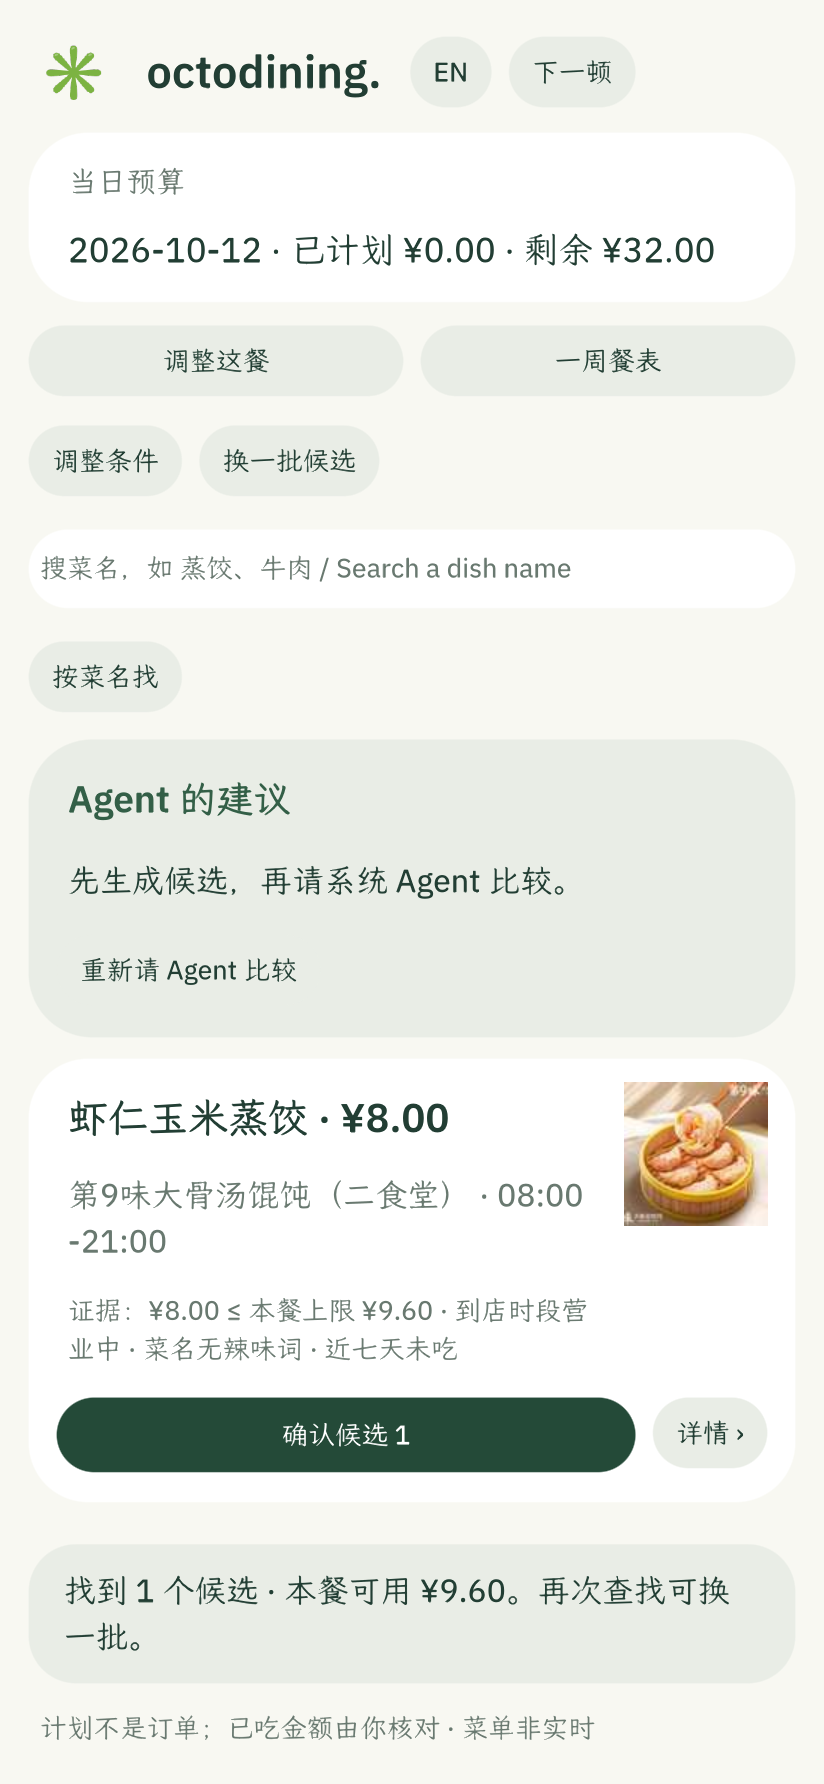
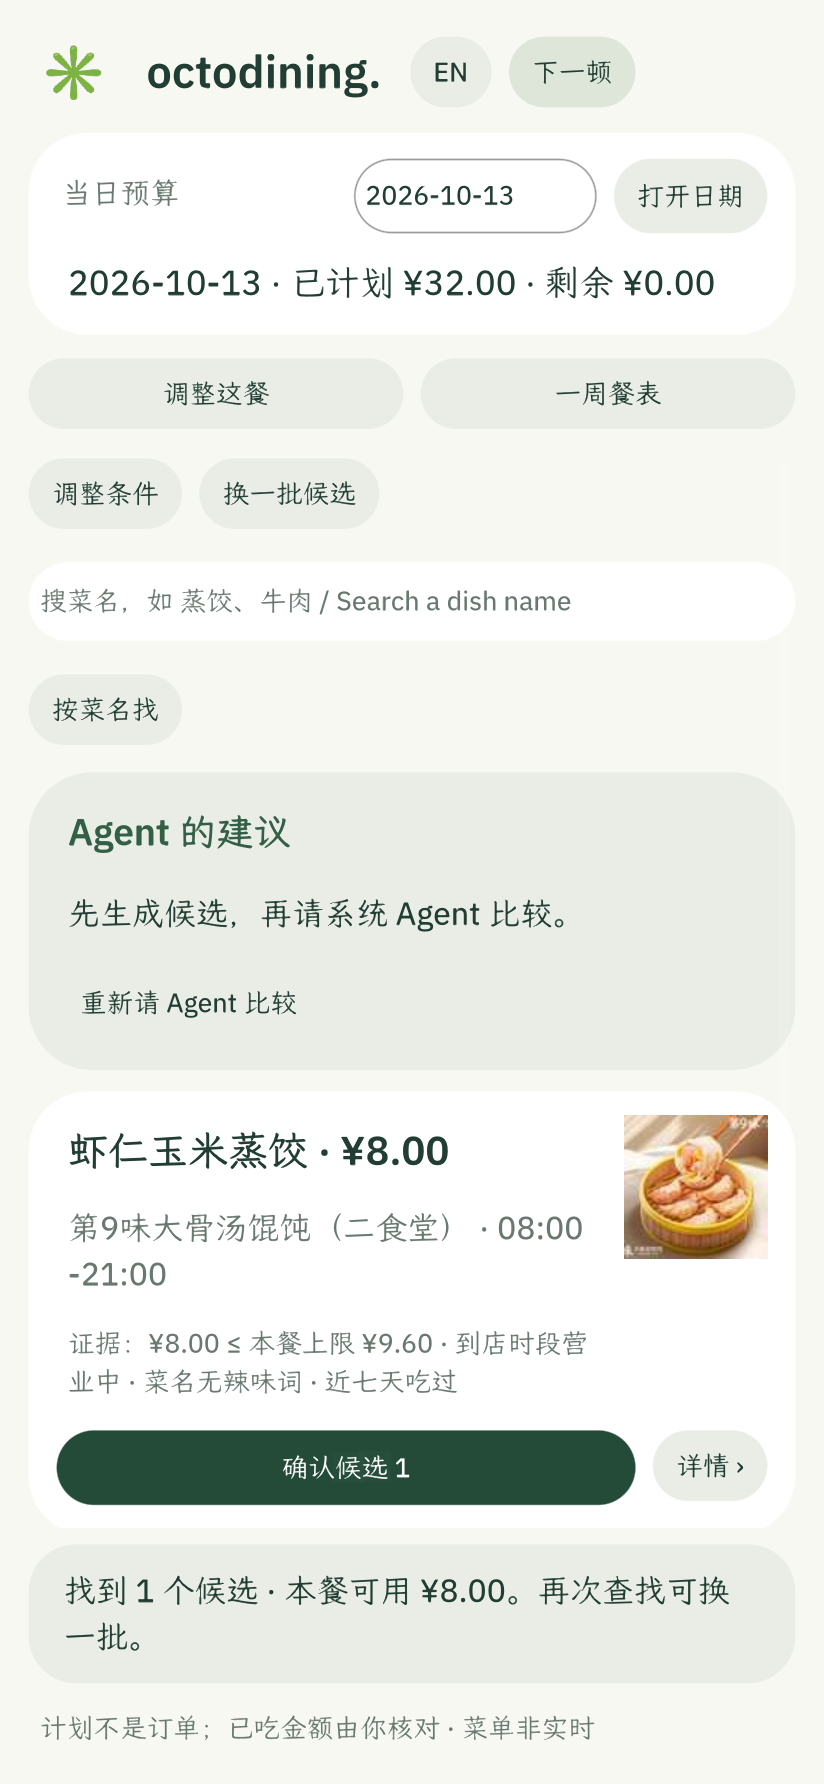
1.11.4: onboarding ends by drafting the first week plan
finish_setup now saves the budget, then immediately generates the
seven-day draft and lands on it for review; only confirmation writes
the plan. Home recommends per-meal only for slots with no plan.
Also fixes a race where discarding a draft mid-generation let the
in-flight ticks repopulate the panel (clear_week_draft bumps the
generation counter). Step 03 copy, screenshots, listing and docs
updated; regressions extended for the setup-to-draft path.

diff --git a/scripts/capture-card-host.py b/scripts/capture-card-host.py
@@ -54,7 +54,7 @@ def main():
         nodes = matching()
         if not nodes:
             get("m?k=scroll&x=200&y=610&dy=-2000&wait=1")
-            for _ in range(8):
+            for _ in range(14):
                 nodes = matching()
                 if nodes:
                     break
@@ -79,8 +79,14 @@ def main():
                 return
         raise RuntimeError(f"Could not fill {widget_id}: {actual!r}")
 
-    def capture(name, previous_mtime=0):
-        # Product images arrive asynchronously after the UI frame. Give the
+    def await_status(fragment, timeout=15):
+        deadline = time.monotonic() + timeout
+        while not any(fragment in node.get("t", "") for node in snap() if node.get("i") == "status"):
+            if time.monotonic() > deadline:
+                raise RuntimeError(f"status never showed {fragment!r}: " + repr([node.get("t") for node in snap() if node.get("i") == "status"]))
+            time.sleep(.25)
+
+    def capture(name, previous_mtime=0):        # Product images arrive asynchronously after the UI frame. Give the
         # native renderer time to replace its black loading rectangle.
         if name != "00-first-run-setup.png":
             time.sleep(1.5)
@@ -115,18 +121,33 @@ def main():
         get("m?k=scroll&x=200&y=610&dy=250&wait=1")
         click(widget_id="setup_preview")
         expected_budget = "每天约 ¥32.00" if args.language == "zh" else "about ¥32.00/day"
-        if not any(expected_budget in node.get("t", "") for node in snap()):
-            raise RuntimeError("First-run budget calculation failed: " + repr([(node.get("i"), node.get("t")) for node in snap() if node.get("t")]))
+        deadline = time.monotonic() + 15
+        while not any(expected_budget in node.get("t", "") for node in snap()):
+            if time.monotonic() > deadline:
+                raise RuntimeError("First-run budget calculation failed: " + repr([(node.get("i"), node.get("t")) for node in snap() if node.get("t")]))
+            time.sleep(.25)
         click(widget_id="setup_start")
-        if not any(node.get("i") == "home_name" for node in snap()):
-            raise RuntimeError("First-run setup did not open the meal-first home")
-        capture("01-home-recommendation.png")
+        draft_ready = "已生成七天草案" if args.language == "zh" else "Seven-day draft ready"
+        await_status(draft_ready)
+        capture("01-first-week-draft.png")
+        before = framebuffer.stat().st_mtime_ns
+        click(widget_id="confirm_draft")
+        confirmed = "已确认并读回核验" if args.language == "zh" else "Confirmed and verified"
+        await_status(confirmed)
+        capture("03-week-plan-confirmed.png", before)
+        before = framebuffer.stat().st_mtime_ns
+        click(widget_id="home_nav")
+        deadline = time.monotonic() + 10
+        while not any(node.get("i") == "home_name" and node.get("t") for node in snap()):
+            if time.monotonic() > deadline:
+                raise RuntimeError("Confirmed week draft did not land on the planned-meal home")
+            time.sleep(.25)
+        capture("01b-home-planned.png", before)
         before = framebuffer.stat().st_mtime_ns
         click(widget_id="manual")
         click(widget_id="find")
         found = "找到 " if args.language == "zh" else "Found "
-        if not any(found in node.get("t", "") for node in snap() if node.get("i") == "status"):
-            raise RuntimeError("Candidate lookup did not complete: " + repr([node.get("t") for node in snap() if node.get("i") == "status"]))
+        await_status(found)
         capture("02-candidates.png", before)
         before = framebuffer.stat().st_mtime_ns
         click(label="详情 ›" if args.language == "zh" else "Details ›")
@@ -136,16 +157,13 @@ def main():
             get("m?k=scroll&x=200&y=610&dy=-280&wait=1")
             time.sleep(.25)
         time.sleep(.6)
-        before = framebuffer.stat().st_mtime_ns
         capture("02b-candidate-detail.png", before)
         click(label="收起 ↑" if args.language == "zh" else "Hide ↑")
         before = framebuffer.stat().st_mtime_ns
         click(label="确认候选 1" if args.language == "zh" else "Confirm option 1")
         verified = "已保存并读回核验" if args.language == "zh" else "Saved and read back"
-        if not any(verified in node.get("t", "") for node in snap() if node.get("i") == "status"):
-            raise RuntimeError("Plan was not saved and read back")
+        await_status(verified)
         click(widget_id="tab_history")
-        capture("03-week-plan-confirmed.png", before)
         print("card-host native capture complete; model and OctoSense Shell are outside this script")
     finally:
         if started:

diff --git a/scripts/test-basic-app.py b/scripts/test-basic-app.py
@@ -98,6 +98,15 @@ class App:
             actual = self.text('status')
         assert fragment in actual, (fragment, actual)
 
+    def await_text(self, key, fragment, timeout=15):
+        # Frames can stall for seconds under GPU contention; poll patiently.
+        deadline = time.monotonic() + timeout
+        actual = self.text(key)
+        while fragment not in actual and time.monotonic() < deadline:
+            time.sleep(.15)
+            actual = self.text(key)
+        assert fragment in actual, (key, fragment, actual)
+
     def quit(self):
         self.get('quit')
         time.sleep(.2)
@@ -149,12 +158,18 @@ def main():
         app.fill('setup_monthly','1500.00')
         app.fill('setup_fixed','800.00')
         app.click('看看如何分配')
-        assert '预算偏紧' in app.text('setup_result')
+        app.await_text('setup_result', '预算偏紧')
         app.fill('setup_fixed','540.00')
         app.click('看看如何分配')
-        assert '每天约 ¥32.00' in app.text('setup_result')
-        app.click('使用这份菜单，开始选餐')
+        app.await_text('setup_result', '每天约 ¥32.00')
+        app.click('保存并生成七天餐表草案')
         assert json.loads((jail/'profile.json').read_text())['daily_cents']==3200
+        app.await_text('status', '已生成七天草案')
+        assert '待确认' in app.text('draft_summary'), app.text('draft_summary')
+        assert not list(jail.glob('plans-*.json')), 'draft wrote a plan before confirmation'
+        record('Onboarding ends with a seven-day draft awaiting confirmation')
+        app.click('discard_draft')
+        app.click('home_nav')
         canteen_minute = datetime.now().hour * 60 + datetime.now().minute
         expected_slot = '早餐' if canteen_minute < 600 else '午餐' if canteen_minute < 840 else '晚餐' if canteen_minute < 1200 else '早餐'
         assert expected_slot in app.text('home_caption'), app.text('home_caption')

diff --git a/scripts/test-custom-menu.py b/scripts/test-custom-menu.py
@@ -68,6 +68,9 @@ def main():
         app.fill("setup_fixed", "540.00")
         app.click("setup_start")
         assert json.loads((jail / "profile.json").read_text())["menu"] == "custom-v1"
+        # Onboarding now lands on the generated week draft; head home to
+        # exercise per-meal recommendation with the imported menu.
+        app.click("home_nav")
         assert app.text("home_name") in {item["name"] for item in meals}
         app.click("home_cta")
         app.status("已保存并读回核验")

diff --git a/scripts/test-language.py b/scripts/test-language.py
@@ -59,6 +59,8 @@ def main():
                 break
         assert 'about ¥32.00/day' in app.text('setup_result'), app.text('setup_result')
         app.click('setup_start')
+        # Onboarding now lands on the generated week draft; head home first.
+        app.click('home_nav')
         assert app.text('intro_title') == 'Your next good meal.'
         assert app.text('home_name')
         assert any(day in app.text('home_caption') for day in ('Today', 'Tomorrow'))

diff --git a/scripts/test-slot-order.py b/scripts/test-slot-order.py
@@ -33,6 +33,8 @@ try:
     app.fill("setup_fixed", "540.00")
     app.click("setup_preview")
     app.click("setup_start")
+    # Onboarding now lands on the generated week draft; head home first.
+    app.click("home_nav")
 
     app.click("manual")
 

diff --git a/README.md b/README.md
@@ -2,23 +2,23 @@
 
 **中文** · [English](README.en.md)
 
-打开就知道下一餐吃什么。OctoDining 把每月可支配生活费变成每日餐饮预算，再从食堂菜单中给出能核对、能更换、能确认的餐食建议。已有餐表时首页优先显示原计划；没有计划时推荐一道。用户也能生成七日草案、逐餐修改，并记录实际花费。Agent 可以比较当前真实候选，重要变更仍由用户确认。
+打开就知道下一餐吃什么。OctoDining 把每月可支配生活费变成每日餐饮预算，首次设置就生成一周餐表草案，确认后首页按餐表执行；没有计划的餐次才推荐一道可确认的菜。用户可以逐餐修改、重新生成草案，并记录实际花费。Agent 可以比较当前真实候选，重要变更仍由用户确认。
 
 这是面向学生的 **OctoSense / OctoScript / Makepad** 原生应用原型。随包菜单是广州某高校食堂的 1,497 条历史快照；也可在首次引导粘贴自己食堂的菜单 JSON。价格、时段和配图不代表实时可售、营养或过敏安全。
 
 **评委先看 Agent 闭环：** [15 秒 1.2.2 真实 Agent 证据剪辑](docs/demo/octodining-122-agent-evidence-reel.mp4) · [同一次 Shell 联调原始记录和三张截图](docs/evidence/shell-ui122-minimax-20261004.json) · [按评分项核验](docs/AGENTIC_JUDGING.md)。MiniMax-M3 在已有晚餐计划上比较候选并建议候选 3；用户亲自确认，应用保存计划并读回核验。剪辑由真实截图制成，并非连续录屏。**1.7.0 的 Shell 测试遭遇 429，没有取得同版模型建议**；下方 1.7.0 画面用于展示后续产品功能，不能与 1.2.2 Agent 证据视作同一次运行。**当前签名版 1.11.1 的整周 Agent 闭环录屏**（真实 MiniMax-M3 提议、应用到草案、确认读回；录于 1.11.0，1.11.1 为界面精简与周窗口锚点修复、Agent 调用逻辑相同）：[帧缓冲录屏与关键帧](docs/evidence/shell-week-agent-1110-20261012.md)。
 
-**当前 1.11.1 界面**（card-host 原生截图，非模型证据；[画面与改动说明](docs/evidence/ui-declutter-1111-20261012.md)）：
+**当前 1.11.4 界面**（card-host 原生截图，非模型证据；[画面与改动说明](docs/evidence/ui-planfirst-1114-20261012.md)）：
 
-| 首次使用 | 下一餐 · 来源行与预算指标 | 候选 · 约束证据 |
+| 首次使用 | 引导完成 · 首周餐表草案 | 确认后的一周餐表 |
 | :---: | :---: | :---: |
-| <img src="docs/evidence/ui-declutter-1111-20261012/00-first-run-setup.png" alt="首次引导" width="250"> | <img src="docs/evidence/ui-declutter-1111-20261012/01-home-recommendation.png" alt="下一餐推荐、来源行与预算指标" width="250"> | <img src="docs/evidence/ui-declutter-1111-20261012/03-candidates.png" alt="候选与约束证据" width="250"> |
+| <img src="docs/evidence/ui-planfirst-1114-20261012/00-first-run-setup.png" alt="首次引导" width="250"> | <img src="docs/evidence/ui-planfirst-1114-20261012/01-first-week-draft.png" alt="引导结束即生成待确认的一周餐表草案" width="250"> | <img src="docs/evidence/ui-planfirst-1114-20261012/03-week-plan-confirmed.png" alt="确认后写入并读回的一周餐表" width="250"> |
 
-| 选餐 · 当日预算卡 | 周餐表 · 本周预算进度 | 超支 · 一键重平衡 |
+| 首页 · 餐表中的下一餐 | 候选 · 约束证据 | 超支 · 一键重平衡 |
 | :---: | :---: | :---: |
-| <img src="docs/evidence/ui-declutter-1111-20261012/02-selection-summary.png" alt="选餐页与合并后的当日预算卡" width="250"> | <img src="docs/evidence/ui-declutter-1111-20261012/04-week-plan-decluttered.png" alt="周餐表与本周预算进度条" width="250"> | <img src="docs/evidence/week-rebalance-20261012/rebalance-proposal.png" alt="周超支预警与省钱调整方案" width="250"> |
+| <img src="docs/evidence/ui-planfirst-1114-20261012/01b-home-planned.png" alt="首页显示餐表里的下一餐" width="250"> | <img src="docs/evidence/ui-planfirst-1114-20261012/02-candidates.png" alt="候选与约束证据" width="250"> | <img src="docs/evidence/week-rebalance-20261012/rebalance-proposal.png" alt="周超支预警与省钱调整方案" width="250"> |
 
-重平衡画面来自自动化验收运行（[说明与断言](docs/evidence/week-rebalance-20261012.md)），不是摆拍；该面板在 1.11.1 未变动。
+重平衡画面来自自动化验收运行（[说明与断言](docs/evidence/week-rebalance-20261012.md)），不是摆拍；该面板在 1.11.4 未变动。
 
 以下为 1.7.0 **card-host 原生运行截图**；不是 OctoSense Shell 的模型联调证据。[更多截图与验证](docs/evidence/next-meal-170-20261005.md)。
 

diff --git a/docs/BRIEF.md b/docs/BRIEF.md
@@ -6,7 +6,7 @@
 
 首批用户是有可获取食堂菜单、预算有限、每天反复决定吃什么的学生。用户需要在可负担的范围内安排餐次，清楚知道计划花多少钱、实际花了多少钱，并能调整自己的决定。打工人的工作餐是后续可验证的使用场景，需要先取得其餐厅菜单与价格数据。
 
-产品承诺是“让预算有限的人，也能好好吃饭”。“好好吃饭”是中文名，首页先回答“下一餐吃什么”：首次使用先说明食堂来源并核算饭钱；有计划就显示下一餐的安排；没有计划时直接推荐一道可确认的菜。调整需求、查看一周餐表是下一步，不要求用户先浏览菜单。A1–A6 是已有餐饮预算分档，用户可以手动改预算；它不用于判断真实资产或给人评级。内置数据覆盖广州某高校食堂，其他食堂依赖用户导入菜单。详细状态与验收见[产品流程](PRODUCT_POSITIONING.md)。
+产品承诺是“让预算有限的人，也能好好吃饭”。“好好吃饭”是中文名，首页先回答“下一餐吃什么”：首次使用说明食堂来源、核算饭钱，随后**自动生成一周餐表草案，用户确认后才写入餐表**；之后首页有计划就显示下一餐的安排，没有计划的餐次才推荐一道可确认的菜。调整需求、查看一周餐表是下一步，不要求用户先浏览菜单。A1–A6 是已有餐饮预算分档，用户可以手动改预算；它不用于判断真实资产或给人评级。内置数据覆盖广州某高校食堂，其他食堂依赖用户导入菜单。详细状态与验收见[产品流程](PRODUCT_POSITIONING.md)。
 
 ## 第一项完整任务
 

diff --git a/docs/evidence/ui-planfirst-1114-20261012.md b/docs/evidence/ui-planfirst-1114-20261012.md
@@ -1,0 +1,13 @@
+# 1.11.4 界面：引导即规划（plan-first onboarding）
+
+2026-10-12 晚，card-host 原生截图（MAKEPAD_WRITE_FRAMEBUFFER_PNG 帧缓冲），`scripts/capture-card-host.py` 全自动驱动，无摆拍；模型与 Shell 不在此脚本范围内。
+
+1.11.4 把新手引导的最后一步从"直接开始单餐推荐"改为"保存预算并自动生成一周餐表草案"：先有餐表规划，再有餐品推荐。首页只在某餐次没有计划时才给推荐；有计划一律显示原计划。
+
+- `00-first-run-setup.png`：首次引导（选菜单 → 核算生活费 → 生成一周餐表）。
+- `01-first-week-draft.png`：引导提交后直接落在一周餐表草案（待确认 21 餐，缺口 0；确认前不写盘）。
+- `03-week-plan-confirmed.png`：确认整周草案后写入并读回核验（21 餐；仅为计划，未下单）。
+- `01b-home-planned.png`：回首页显示餐表里的下一餐（已写入餐表，可换一道）。
+- `02-candidates.png` / `02b-candidate-detail.png`：无计划餐次的候选查找与约束证据（此链路保持原样）。
+
+对应回归：`test-basic-app.py` 新增断言——引导结束出现待确认草案且未写 plans 文件；`test-week-draft.py` 继续覆盖草案确认写入与逐日预算。

diff --git a/docs/PRODUCT_POSITIONING.md b/docs/PRODUCT_POSITIONING.md
@@ -6,6 +6,8 @@
 
 输入每月可支配生活费、非餐饮固定开销和缓冲金。应用按 `(生活费－固定开销－缓冲金) / 30` 估算每日餐饮预算；30 天只是可解释的起始假设。默认可使用随包附带的广州某高校菜单快照；也可粘贴含来源、更新日期、时区、商品名、店铺、类别、价格和营业时段的 JSON，应用校验后存入本地。`scripts/menu-csv-to-json.py` 可将指定 CSV 转成可粘贴的 JSON。目前宿主没有应用可用的文件选择接口，因此还不能在界面里直接选择 CSV，也没有自动采集。
 
+**保存预算后，应用立即生成从当天起的一周餐表草案**（见下节规则），引导的落点就是这份待确认草案；用户逐项核对并确认后，整周才写入本地餐表。舍弃草案则回到逐餐推荐的默认状态。
+
 预算分配会限制每日总额及各餐候选，但不把价格低等同于吃得好。午晚餐排除明显的加料、纯主食和小份条目；早餐有单独候选池。商品名称无法证明份量、营养、过敏原或实际库存，用户仍需核对。
 
 ## 一周餐表

diff --git a/docs/ROADMAP.md b/docs/ROADMAP.md
@@ -4,7 +4,7 @@
 
 ## 产品闭环补齐（1.5.0 起）
 
-首次使用已支持内置菜单或验证后粘贴 JSON 菜单、月生活费核算；下一餐优先显示确认计划，七日草案经用户确认后写入，实际花费可记录。还没有文件选择器、自动采集和 1.7.0 同版 Shell Agent 证据。份量与营养信息缺失时不宣称“最佳”或“保证吃饱”。
+首次使用已支持内置菜单或验证后粘贴 JSON 菜单、月生活费核算，保存后自动生成七日草案，经用户确认后写入；下一餐优先显示确认计划，没有计划的餐次才推荐，实际花费可记录。还没有文件选择器、自动采集和 1.7.0 同版 Shell Agent 证据。份量与营养信息缺失时不宣称“最佳”或“保证吃饱”。
 
 ## 第一步：基本功能 — 已完成 card-host 验收
 
